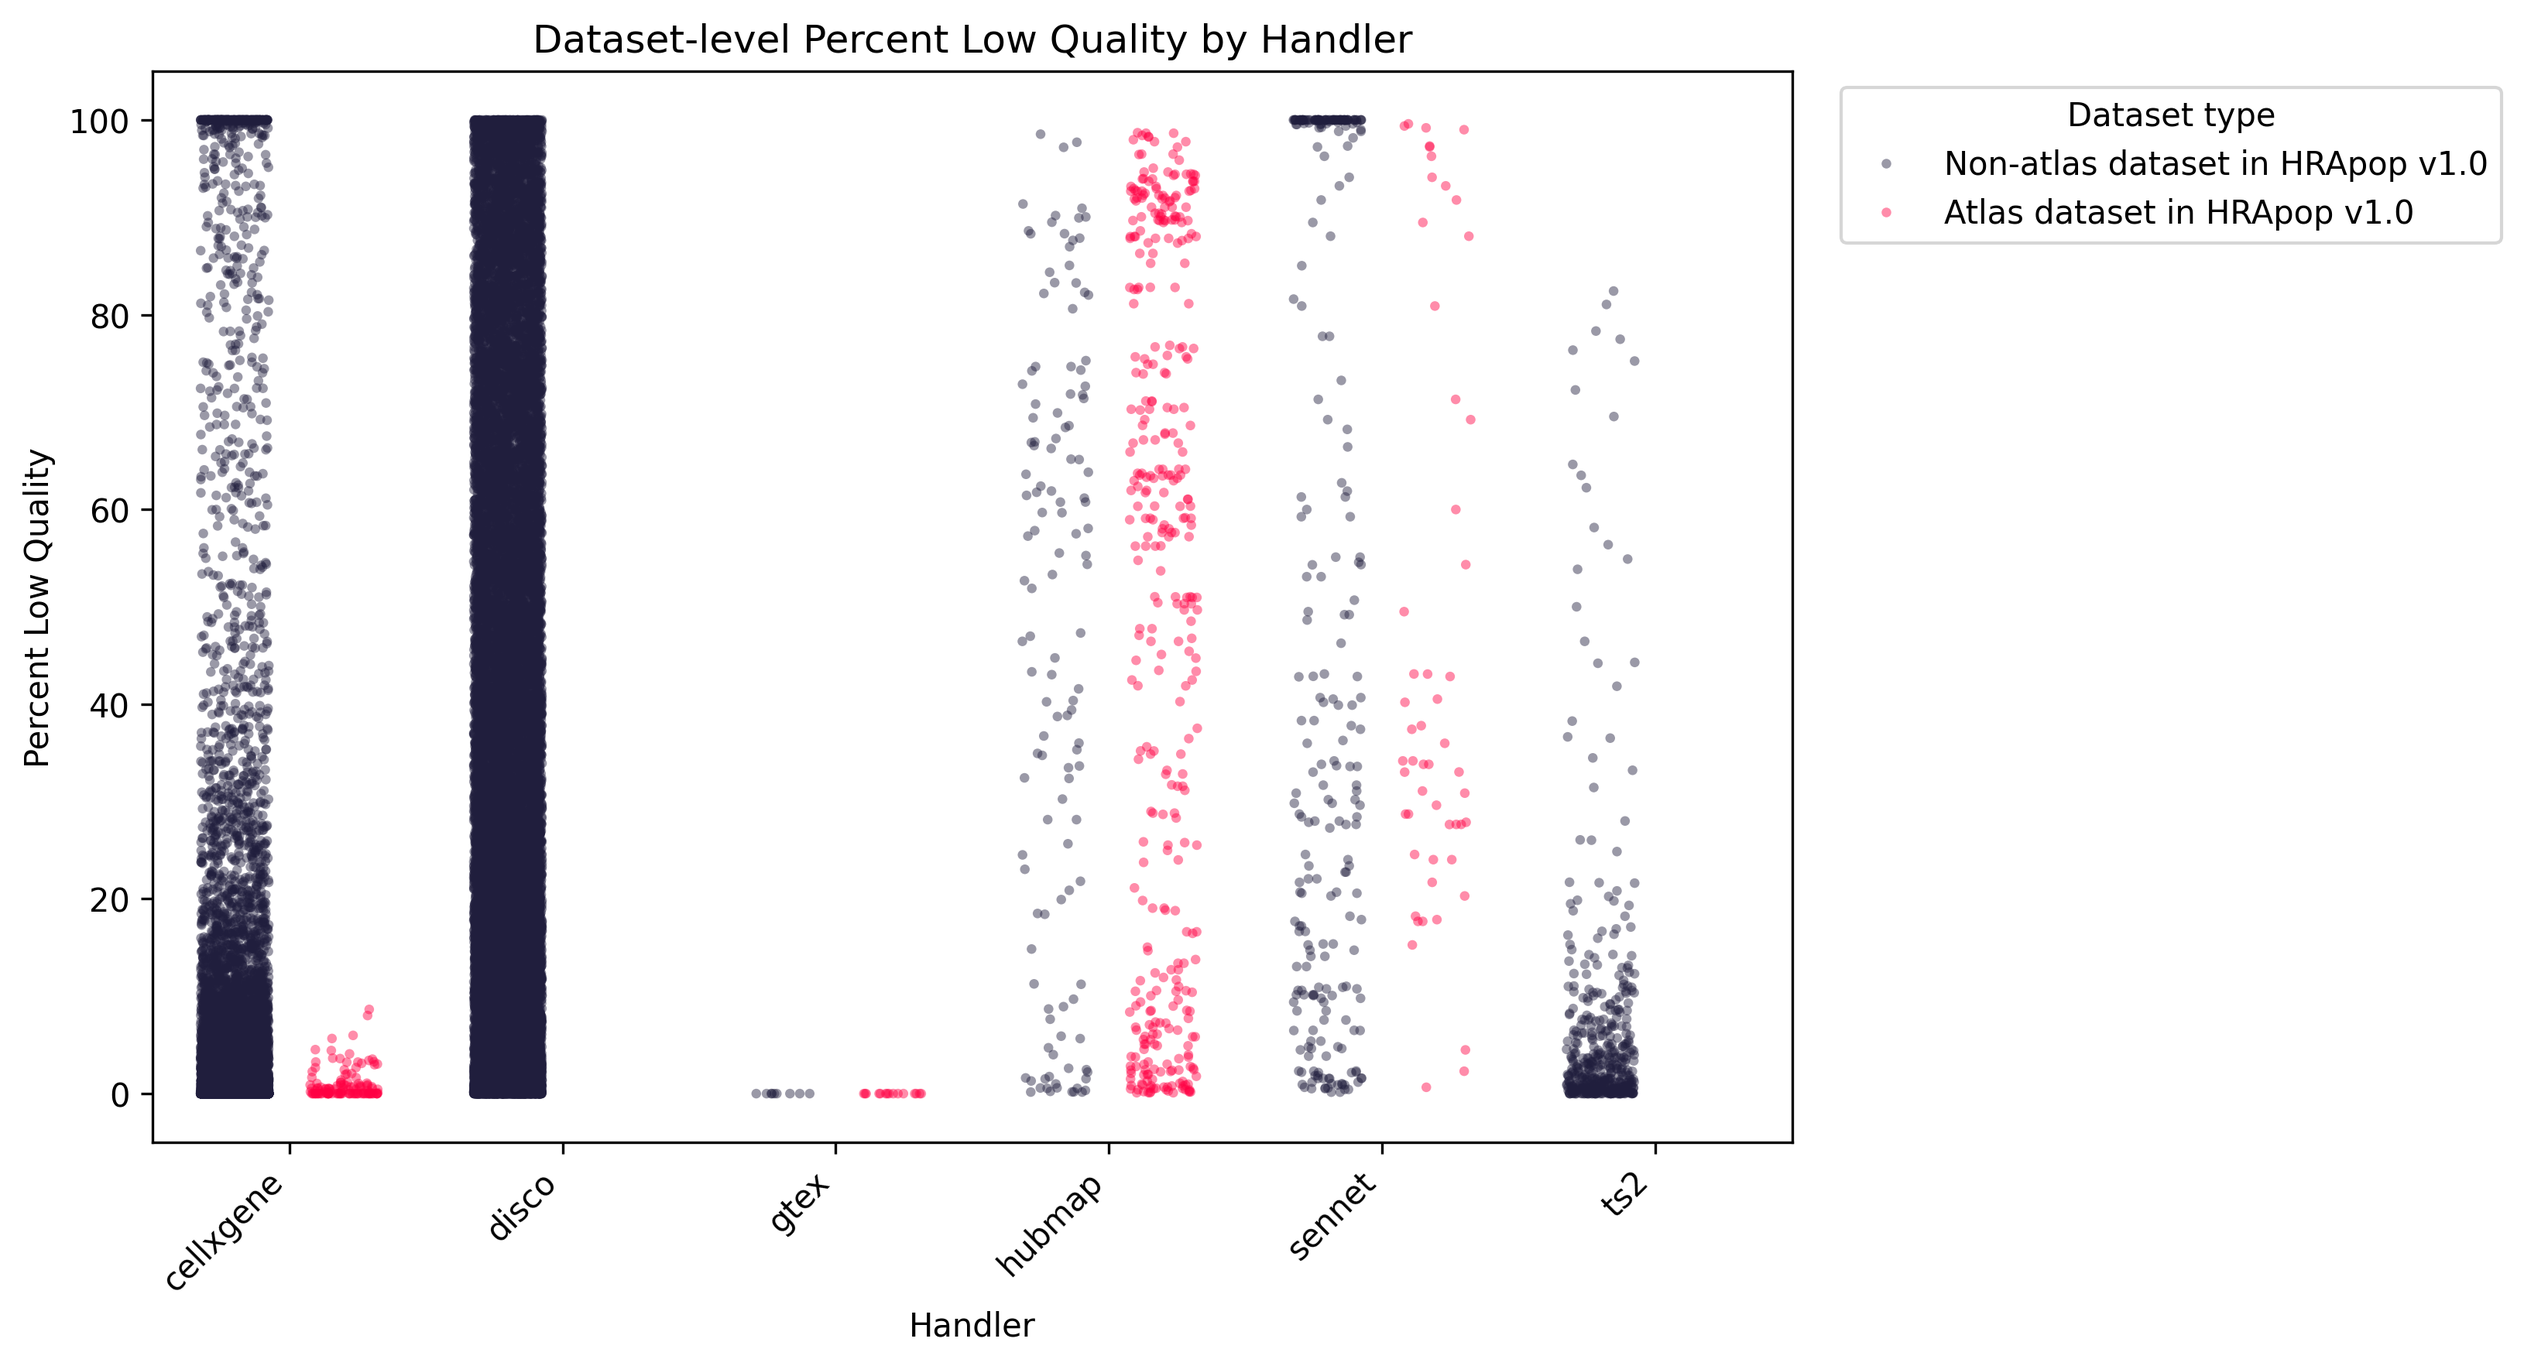
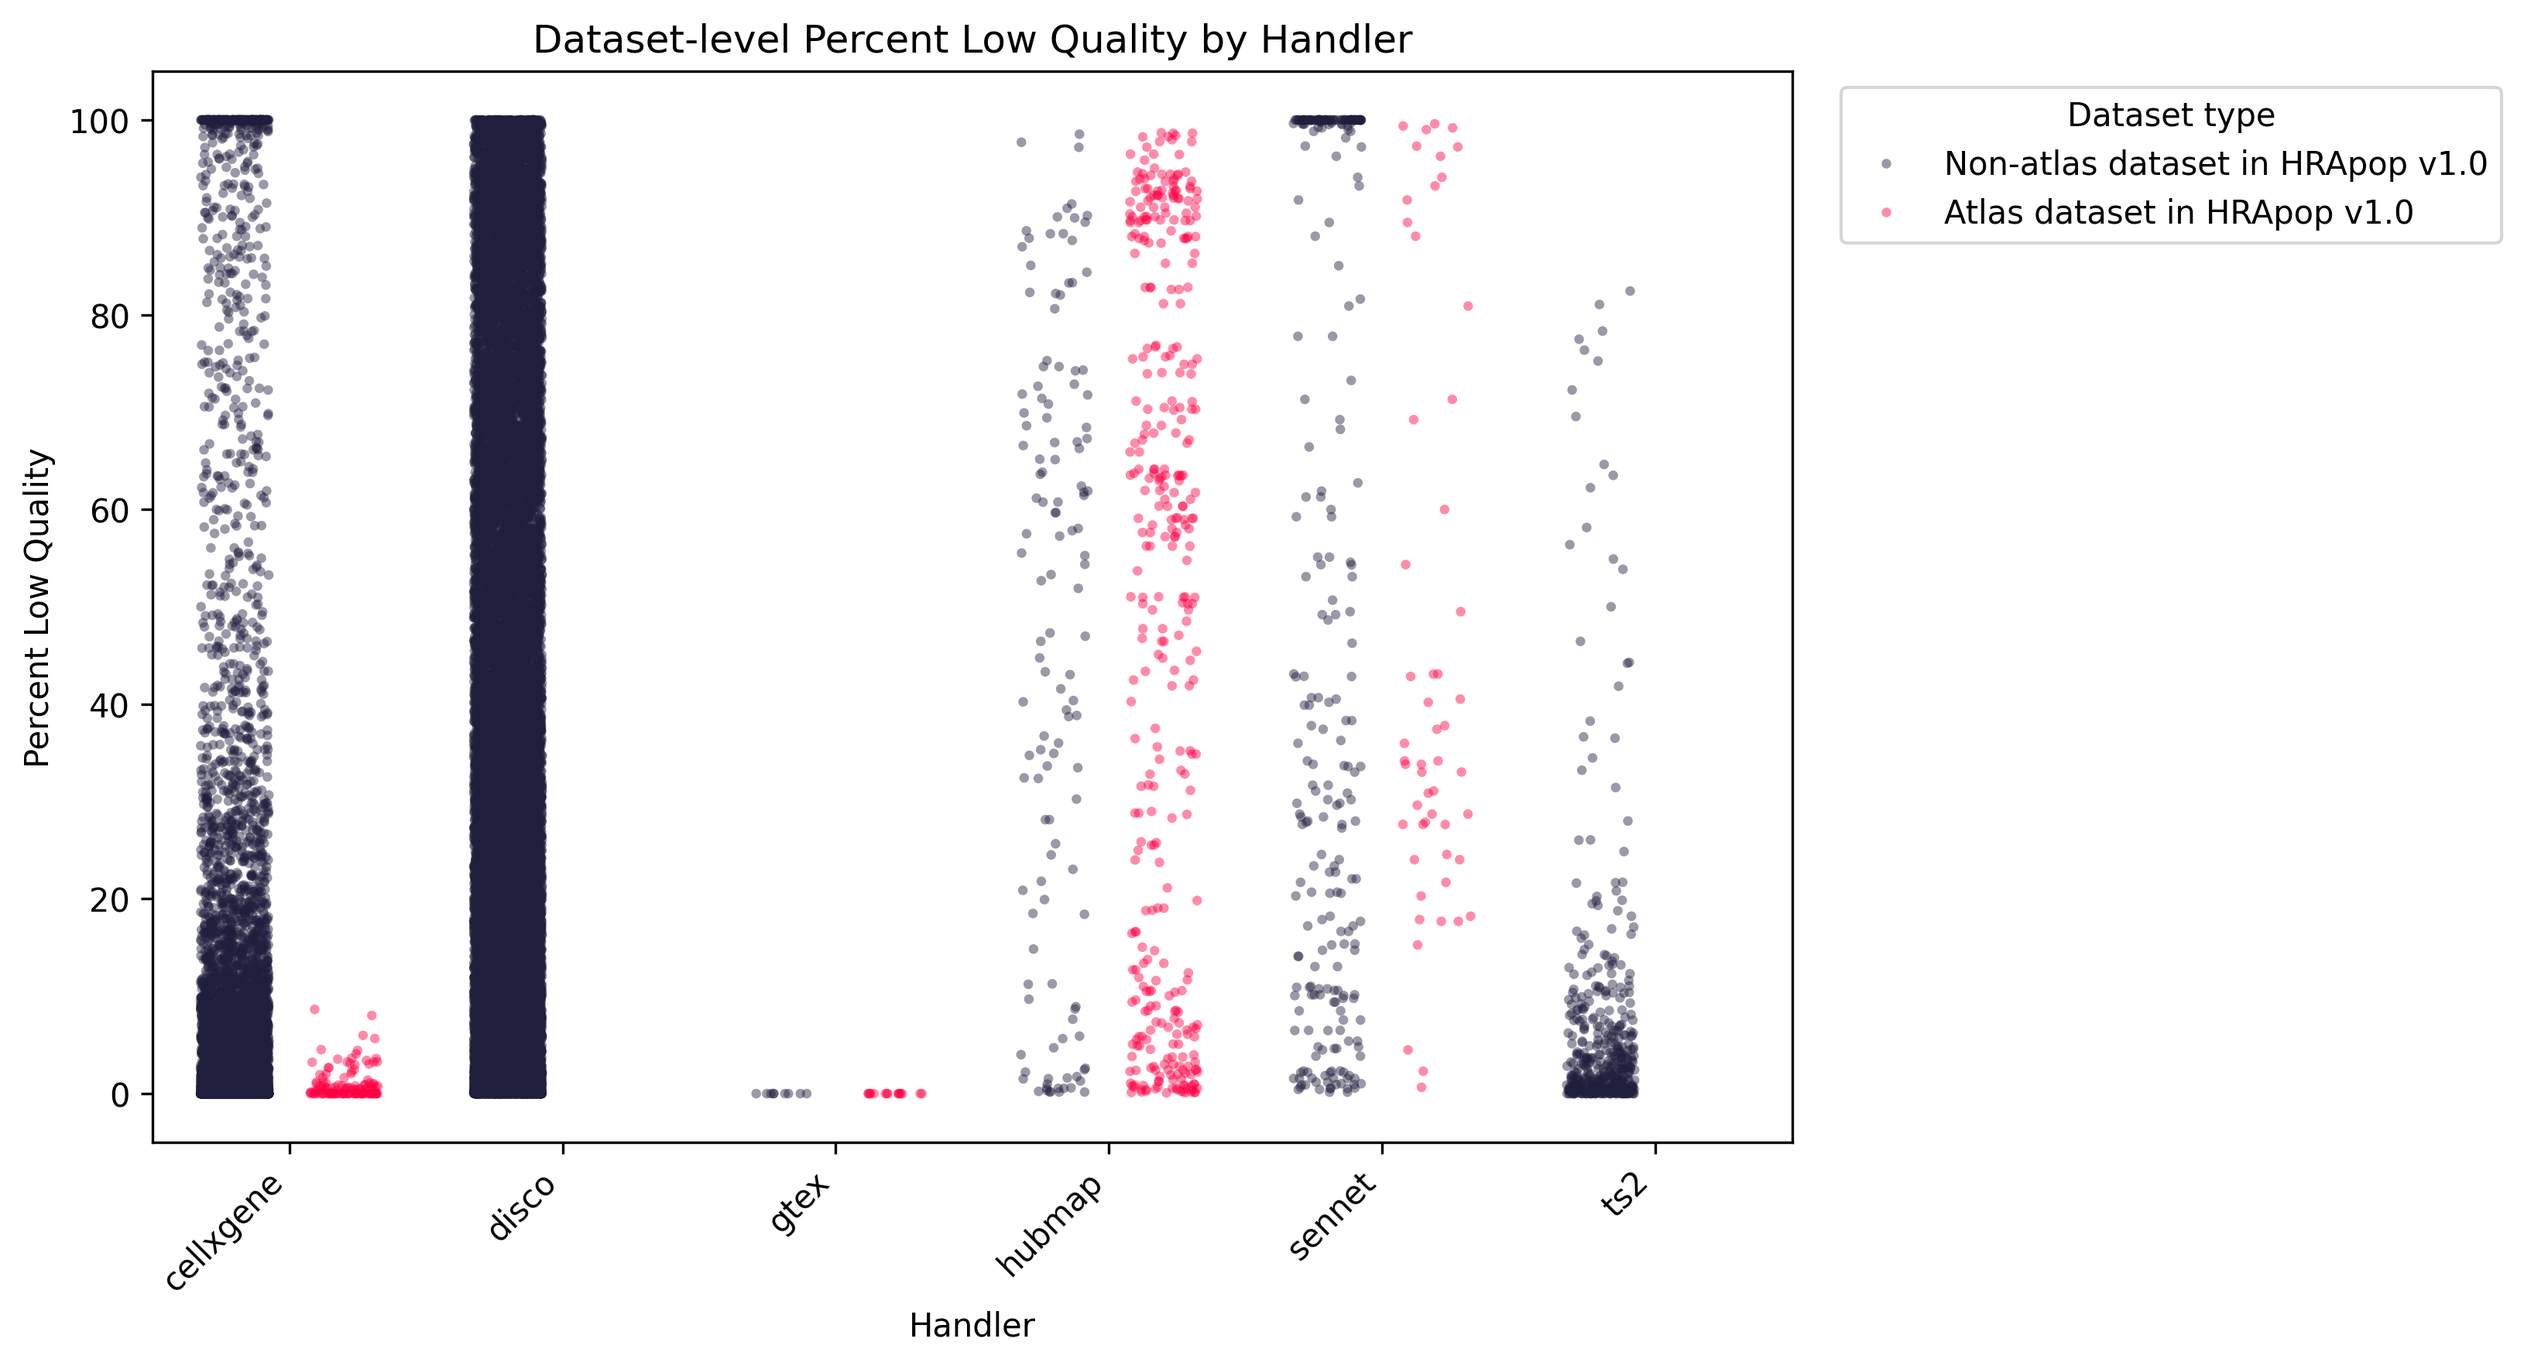
Added cor table

diff --git a/qc/10-hra-pop-v1.1-qc.py b/qc/10-hra-pop-v1.1-qc.py
@@ -1,10 +1,10 @@
-"""Generate QC summaries and faceted scatter plots for HRApop datasets.
+"""Generate QC summaries and visualizations for HRApop datasets.
 
 The script:
 1. Ensures the QC report CSV is decompressed.
 2. Loads atlas metadata from the HRApop repository.
 3. Prints grouped QC summary statistics by handler (= portal/source).
-4. Creates and saves a faceted ribo-vs-mito scatter plot with threshold lines.
+4. Creates and saves faceted scatter plots and a handler-level jitter plot.
 """
 
 import gzip
@@ -17,6 +17,7 @@ import matplotlib as mpl
 import matplotlib.pyplot as plt
 import pandas as pd
 import seaborn as sns
+import numpy
 
 
 DATA_DIR = Path("data")
@@ -153,9 +154,26 @@ def aggregate_by_handler(df: pd.DataFrame) -> pd.DataFrame:
 
 
 def make_summary_table(df: pd.DataFrame, threshold: dict) -> None:
-    """Print dataset counts against the configured mito and ribo thresholds."""
+    """Build and persist per-handler threshold coverage counts.
+
+    The output table contains one row per `(handler, metric)` combination and
+    is written to `output/qc_summary_table.csv`.
+
+    Args:
+        df: QC DataFrame containing per-dataset metrics and a `handler` column.
+        threshold: Dictionary with nested `ribo` and `mito` min/max thresholds.
+    """
 
     def count_datasets(group_df: pd.DataFrame, mask: pd.Series) -> int:
+        """Count unique datasets in a grouped frame that satisfy a boolean mask.
+
+        Args:
+            group_df: Handler-specific slice of the QC DataFrame.
+            mask: Boolean mask aligned to `group_df.index`.
+
+        Returns:
+            Number of unique `dataset_id` values in rows where mask is True.
+        """
         matching_rows = group_df.loc[mask]
         return int(matching_rows["dataset_id"].nunique())
 
@@ -241,9 +259,56 @@ def make_summary_table(df: pd.DataFrame, threshold: dict) -> None:
     return
 
 
+def compute_correlation(df: pd.DataFrame) -> pd.DataFrame:
+    """Compute and save a Pearson correlation matrix for QC metrics.
+
+    Args:
+        df: QC DataFrame containing numeric QC metrics.
+
+    Returns:
+        Correlation matrix DataFrame for the configured QC columns.
+    """
+    correlation_columns = [
+        "percent_low_quality",
+        "mean_pct_counts_ribo",
+        "mean_pct_counts_mt",
+        "mean_n_genes_by_counts",
+        "mean_total_counts",
+        "mean_pct_counts_in_top_20_genes",
+        "mean_pct_counts_in_top_50_genes",
+    ]
+
+    missing_columns = [column for column in correlation_columns if column not in df.columns]
+    if missing_columns:
+        raise ValueError(
+            f"Missing required columns for correlation matrix: {missing_columns}"
+        )
+
+    correlation_matrix = df[correlation_columns].corr(method="pearson")
+
+    OUTPUT_DIR.mkdir(parents=True, exist_ok=True)
+    output_path = OUTPUT_DIR / "qc_correlation_matrix.csv"
+    correlation_matrix.to_csv(output_path)
+
+    print("Correlation matrix:")
+    print(correlation_matrix.to_string())
+    print(f"Saved correlation matrix to {output_path}")
+
+    return correlation_matrix
+
+
 def enrich_summary_with_atlas_info(
     df: pd.DataFrame, atlas_metadata: pd.DataFrame
 ) -> pd.DataFrame:
+    """Add atlas membership labels to the QC summary rows.
+
+    Args:
+        df: QC DataFrame with `dataset_id` values.
+        atlas_metadata: DataFrame with atlas flags keyed by `dataset_id`.
+
+    Returns:
+        QC DataFrame enriched with `is_atlas_dataset` and `atlas_label` columns.
+    """
     merged_df = pd.merge(df, atlas_metadata, on="dataset_id", how="left")
     merged_df["is_atlas_dataset"] = merged_df["is_atlas_dataset"].fillna(False)
     merged_df["atlas_label"] = merged_df["is_atlas_dataset"].map(
@@ -258,27 +323,41 @@ def enrich_summary_with_atlas_info(
 def make_scatter_graph(
     df: pd.DataFrame,
     name: str,
+    x_label: str,
+    y_label: str,
+    x_scale: str,
+    y_scale: str,
+    *,
+    x_lim: tuple[float, float],
+    y_lim: tuple[float, float],
     x_column: str = DEFAULT_X_COLUMN,
     y_column: str = DEFAULT_Y_COLUMN,
-    x_label: str | None = None,
-    y_label: str | None = None,
-    x_scale: str = "log",
-    y_scale: str = "log",
     show_ablines=False,
+    x_ablines: list[tuple[str, str] | str] | None = None,
+    y_ablines: list[tuple[str, str] | str] | None = None,
 ) -> None:
-    """Create and save a faceted ribo-vs-mito scatter plot.
+    """Create and save a faceted scatter plot by handler.
 
-    Points are color/shape/size encoded by atlas status and overlaid with
-    configured ribo/mito threshold lines.
+    Points are color/shape/size encoded by atlas status. Optional threshold
+    lines are drawn for axes that map to configured ribo/mito threshold keys.
 
     Args:
         df: QC report DataFrame.
+        name: Output file stem (PNG written to the output directory).
+        x_label: Required label for the x-axis.
+        y_label: Required label for the y-axis.
+        x_scale: Required Matplotlib scale for the x-axis.
+        y_scale: Required Matplotlib scale for the y-axis.
+        x_lim: Required x-axis limits `(min, max)`.
+        y_lim: Required y-axis limits `(min, max)`.
         x_column: Column to plot on the x-axis.
         y_column: Column to plot on the y-axis.
-        x_label: Optional custom label for the x-axis.
-        y_label: Optional custom label for the y-axis.
-        x_scale: Matplotlib scale for the x-axis.
-        y_scale: Matplotlib scale for the y-axis.
+        show_ablines: Whether to draw threshold guide lines for known metrics.
+        x_ablines: Optional list of vertical-line specs. Each spec can be either
+            a threshold key string (for example `"low_quality"`, which expands to
+            both min and max) or an explicit `(threshold_key, bound)` tuple.
+        y_ablines: Optional list of horizontal-line specs. Uses the same format
+            as `x_ablines`.
     """
     thresholds = load_qc_thresholds()
 
@@ -292,10 +371,64 @@ def make_scatter_graph(
             f"Missing required columns for visualization: {missing_columns}"
         )
 
-    x_label = x_label or AXIS_LABEL_MAP.get(x_column, x_column)
-    y_label = y_label or AXIS_LABEL_MAP.get(y_column, y_column)
+    if not x_label.strip() or not y_label.strip():
+        raise ValueError("x_label and y_label are required and cannot be empty.")
+
+    if not x_scale.strip() or not y_scale.strip():
+        raise ValueError("x_scale and y_scale are required and cannot be empty.")
+
+    if x_lim[0] >= x_lim[1] or y_lim[0] >= y_lim[1]:
+        raise ValueError("x_lim and y_lim must be (min, max) with min < max.")
+
     x_threshold_key = THRESHOLD_COLUMN_MAP.get(x_column)
     y_threshold_key = THRESHOLD_COLUMN_MAP.get(y_column)
+
+    def resolve_ablines(
+        abline_specs: list[tuple[str, str] | str] | None,
+        default_threshold_key: str | None,
+    ) -> list[tuple[str, str]]:
+        """Normalize ab-line specs into explicit `(threshold_key, bound)` tuples."""
+        if abline_specs is None:
+            if default_threshold_key is None:
+                return []
+            return [(default_threshold_key, "min"), (default_threshold_key, "max")]
+
+        resolved_specs: list[tuple[str, str]] = []
+        available_keys = list(thresholds.keys())
+        valid_bounds = {"min", "max"}
+
+        for spec in abline_specs:
+            if isinstance(spec, str):
+                threshold_key = spec
+                if threshold_key not in thresholds:
+                    raise ValueError(
+                        f"Unknown threshold key '{threshold_key}'. Available: {available_keys}"
+                    )
+                for bound in ("min", "max"):
+                    if bound in thresholds[threshold_key]:
+                        resolved_specs.append((threshold_key, bound))
+                continue
+
+            threshold_key, bound = spec
+            if threshold_key not in thresholds:
+                raise ValueError(
+                    f"Unknown threshold key '{threshold_key}'. Available: {available_keys}"
+                )
+            if bound not in valid_bounds:
+                raise ValueError(
+                    f"Unknown threshold bound '{bound}'. Use one of: {sorted(valid_bounds)}"
+                )
+            if bound not in thresholds[threshold_key]:
+                raise ValueError(
+                    f"Threshold key '{threshold_key}' does not define bound '{bound}'."
+                )
+
+            resolved_specs.append((threshold_key, bound))
+
+        return resolved_specs
+
+    x_abline_specs = resolve_ablines(x_ablines, x_threshold_key)
+    y_abline_specs = resolve_ablines(y_ablines, y_threshold_key)
 
     merged_df = df.copy()
 
@@ -337,21 +470,25 @@ def make_scatter_graph(
     # Add threshold lines and axis formatting to each facet.
     for ax in g.axes.flatten():
         if show_ablines:
-            if x_threshold_key is not None:
-                for value in (
-                    thresholds[x_threshold_key]["min"],
-                    thresholds[x_threshold_key]["max"],
-                ):
-                    ax.axvline(value, color="red", linestyle="--", linewidth=1.5)
-            if y_threshold_key is not None:
-                for value in (
-                    thresholds[y_threshold_key]["min"],
-                    thresholds[y_threshold_key]["max"],
-                ):
-                    ax.axhline(value, color="blue", linestyle="--", linewidth=1.5)
+            for threshold_key, bound in x_abline_specs:
+                ax.axvline(
+                    thresholds[threshold_key][bound],
+                    color="red",
+                    linestyle="--",
+                    linewidth=1.5,
+                )
+            for threshold_key, bound in y_abline_specs:
+                ax.axhline(
+                    thresholds[threshold_key][bound],
+                    color="blue",
+                    linestyle="--",
+                    linewidth=1.5,
+                )
 
         ax.set_xscale(x_scale)
         ax.set_yscale(y_scale)
+        ax.set_xlim(x_lim)
+        ax.set_ylim(y_lim)
         ax.set_xlabel(x_label)
         ax.set_ylabel(y_label)
 
@@ -363,12 +500,23 @@ def make_scatter_graph(
 
     print(f"Saved plot to {output_path}")
 
+
 def make_jitter_plot(df: pd.DataFrame, name: str) -> None:
-    """Create and save a jitter plot of percent low quality by handler."""
+    """Create and save a dataset-level jitter plot of low-quality percentages.
+
+    Args:
+        df: QC report DataFrame with `handler`, `percent_low_quality`, and
+            `atlas_label` columns.
+        name: Output file stem (PNG written to the output directory).
+    """
     required_columns = ["handler", "percent_low_quality", "atlas_label"]
-    missing_columns = [column for column in required_columns if column not in df.columns]
+    missing_columns = [
+        column for column in required_columns if column not in df.columns
+    ]
     if missing_columns:
-        raise ValueError(f"Missing required columns for jitter graph: {missing_columns}")
+        raise ValueError(
+            f"Missing required columns for jitter graph: {missing_columns}"
+        )
 
     plt.figure(figsize=(11, 6))
     ax = sns.stripplot(
@@ -398,8 +546,14 @@ def make_jitter_plot(df: pd.DataFrame, name: str) -> None:
 
     print(f"Saved plot to {output_path}")
 
+
 def main() -> None:
-    """Run end-to-end QC summary generation and plotting."""
+    """Run the end-to-end HRApop QC reporting workflow.
+
+    The workflow loads QC data, enriches rows with atlas metadata, computes
+    grouped summary statistics, writes threshold coverage summaries, and saves
+    scatter and jitter visualizations under the output directory.
+    """
     print("")
     print("")
     print("")
@@ -409,17 +563,34 @@ def main() -> None:
     merged_df = enrich_summary_with_atlas_info(df, atlas_metadata)
     aggregate_by_handler(merged_df)
     make_summary_table(merged_df, load_qc_thresholds())
-    make_scatter_graph(merged_df, name="qc_scatter_by_handler", show_ablines=True)
+    make_scatter_graph(
+        merged_df,
+        name="qc_scatter_by_handler",
+        x_label="Mean % counts ribo",
+        y_label="Mean % counts mt",
+        x_scale="log",
+        y_scale="log",
+        x_lim=(0.0, 100.0),
+        y_lim=(0.0, 100.0),
+        show_ablines=True,
+    )
+    make_scatter_graph(
+        merged_df,
+        name="qc_scatter_mito_vs_percentage_low_quality",
+        x_column="mean_pct_counts_mt",
+        y_column="percent_low_quality",
+        x_label="Mean % counts mt",
+        y_label="Percent low quality",
+        x_scale="log",
+        y_scale="linear",
+        x_lim=(0.0, 100.0),
+        y_lim=(0.0, 100.0),
+        x_ablines=[("mito", "min"), ("mito", "max")],
+        y_ablines=[("low_quality", "min"), ("low_quality", "max")],
+        show_ablines=True,
+    )
     make_jitter_plot(merged_df, name="qc_jitter_by_handler_quality")
-    # make_scatter_graph(
-    #     merged_df,
-    #     x_column="mean_n_genes_by_counts",
-    #     y_column="mean_total_counts",
-    #     name="qc_mean_genes_by_counts_vs_total_counts",
-    #     x_scale="log",
-    #     y_scale="linear",
-    #     show_ablines=False,
-    # )
+    compute_correlation(merged_df)
     print("=" * 100)
     print("")
     print("")
